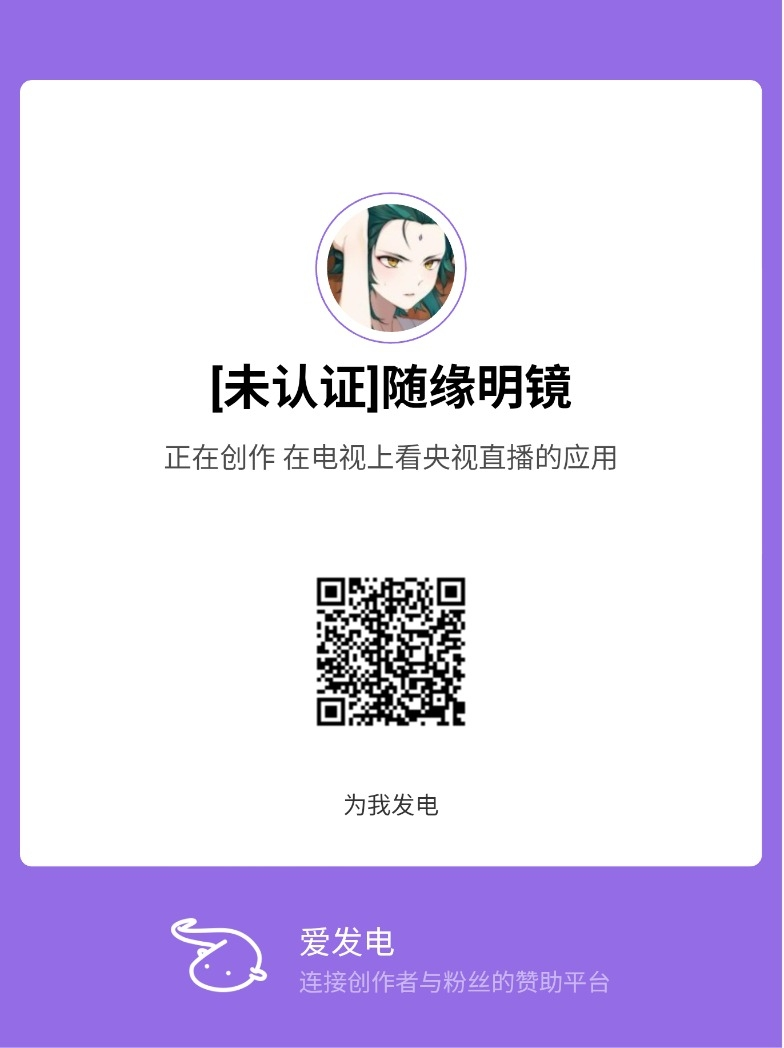
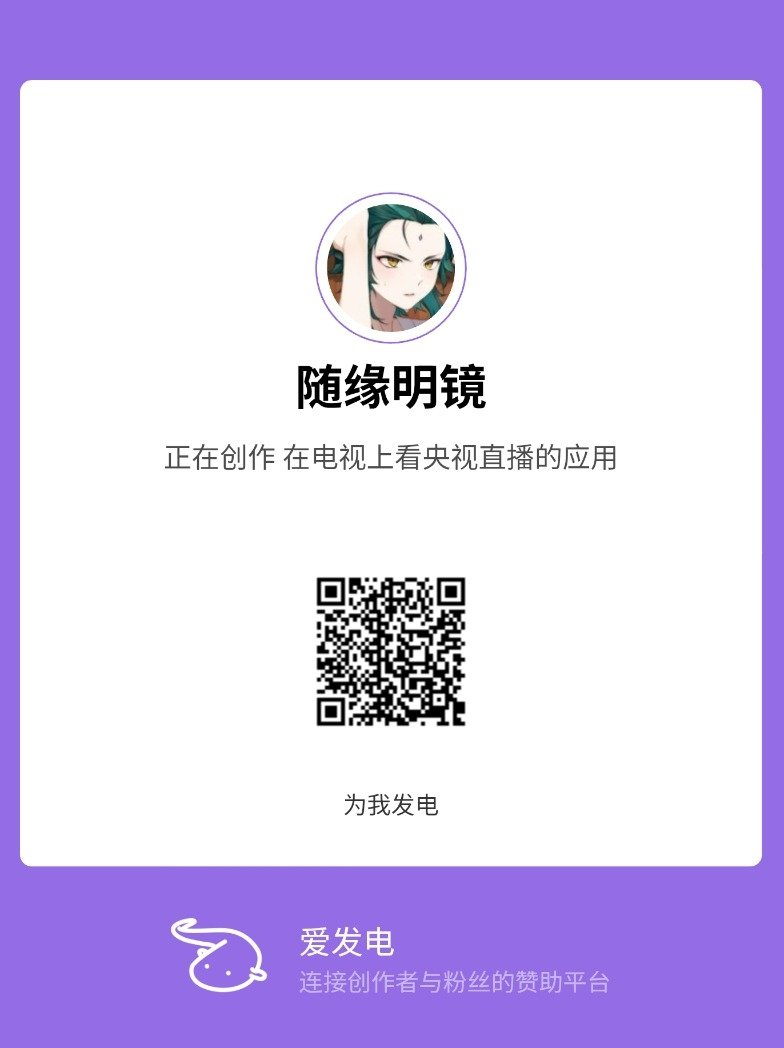
更新赞助码

Changed region(s): [[0.9796, 0.0, 1.0, 1.0], [0.2449, 0.3359, 0.7347, 0.3969]]

diff --git a/README.md b/README.md
@@ -107,3 +107,9 @@ CN=suiyuanmingjing
 - 频道和直播地址来自央视网 `tv.cctv.com`。
 - 本应用只打开官网公开直播页，不解析、不代理、不保存视频内容。
 - 电视盒子型号较多，个别设备的遥控器按键映射可能不同。
+
+## 赞助
+
+这个项目完全免费，也没有广告。如果它对你有点用，欢迎请我喝杯茶：
+
+<img src="docs/afdian.jpg" alt="爱发电赞助码" width="320" />
